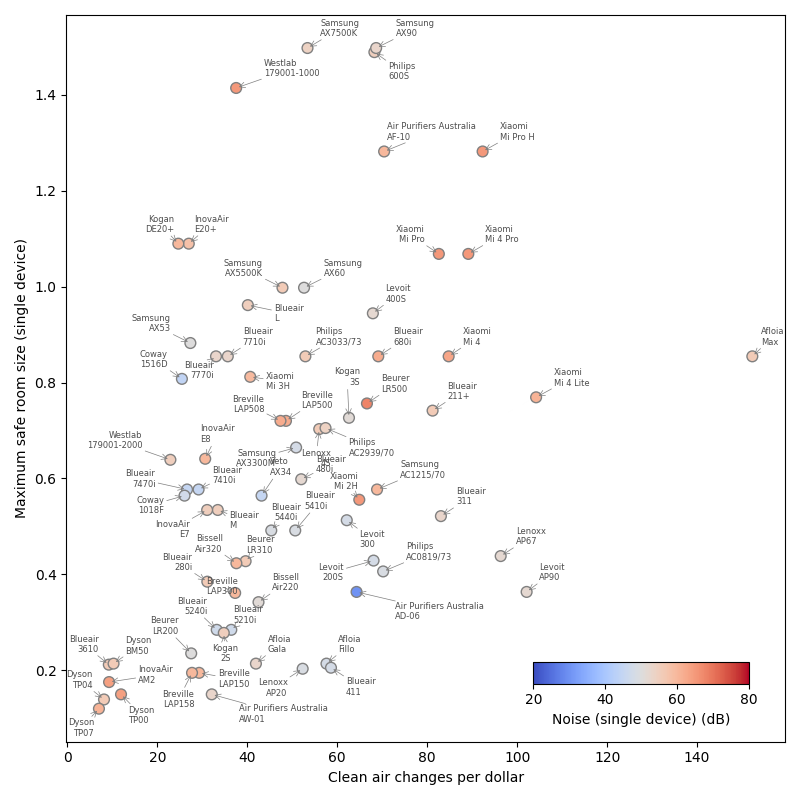
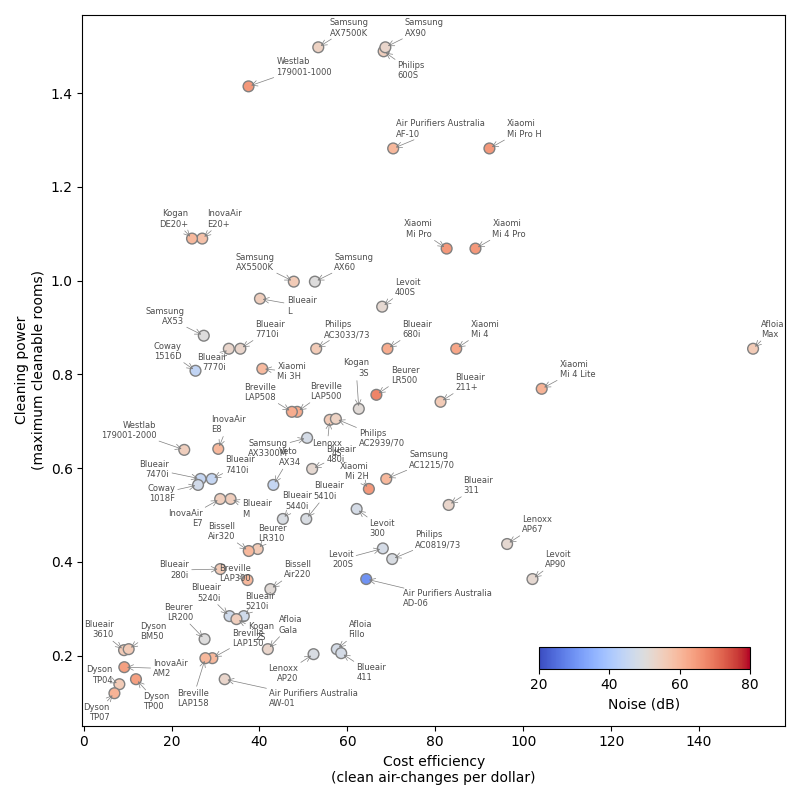
Quick push

diff --git a/products/dashboard.html b/products/dashboard.html
@@ -13,7 +13,7 @@ With so many air cleaning devices on the market, how do we know which product is
 <div>
 <h2>Overview Chart</h2>
 <p>
-This chart brings all of our data together in one graphic. Based on a typical medium-sized room and a safe standard of air quality, this chart asks: how many fresh air changes can this device buy me for the cost of a single dollar (left to right, where right is better), and how many typical medium-sized rooms can it keep clean (bottom to top, where top is better). The colour gives a sense of how noisy the device is (blue to red, where blue is better). The cost includes the upfront cost (spread over six years) plus the expected ongoing costs of electricity and filter replacements.
+This chart brings all of our data together in one graphic. Based on a typical medium-sized room and a safe standard of air quality, this chart asks: how many rooms full of clear air can this device buy me for the cost of a single dollar (left to right, where right is better), and how many typical medium-sized rooms can it keep clean (bottom to top, where top is better). The colour gives a sense of how noisy the device is (blue to red, where blue is better). The cost includes the upfront cost (spread over six years) plus the expected ongoing costs of electricity and filter replacements.
 </p>
 <div align="center">
 <img id = 'synoptic' src='https://rsbyrne.github.io/aircleaning/products/synoptic.png' alt="Synoptic"> 

diff --git a/aircleaning/produce.py b/aircleaning/produce.py
@@ -128,7 +128,7 @@ def dashboard(path=productsdir, name='dashboard'):
         '''<div>''',
         '''<h2>Overview Chart</h2>''',
         '''<p>''',
-        '''This chart brings all of our data together in one graphic. Based on a typical medium-sized room and a safe standard of air quality, this chart asks: how many fresh air changes can this device buy me for the cost of a single dollar (left to right, where right is better), and how many typical medium-sized rooms can it keep clean (bottom to top, where top is better). The colour gives a sense of how noisy the device is (blue to red, where blue is better). The cost includes the upfront cost (spread over six years) plus the expected ongoing costs of electricity and filter replacements.''',
+        '''This chart brings all of our data together in one graphic. Based on a typical medium-sized room and a safe standard of air quality, this chart asks: how many rooms full of clear air can this device buy me for the cost of a single dollar (left to right, where right is better), and how many typical medium-sized rooms can it keep clean (bottom to top, where top is better). The colour gives a sense of how noisy the device is (blue to red, where blue is better). The cost includes the upfront cost (spread over six years) plus the expected ongoing costs of electricity and filter replacements.''',
         '''</p>''',
         '''<div align="center">''',
         '''<img id = 'synoptic' src='https://rsbyrne.github.io/aircleaning/products/synoptic.png' alt="Synoptic"> ''',
@@ -236,13 +236,13 @@ def synoptic(path=productsdir):
         data['efficiency'], data['maxsize'],
         c=noisecolours, s=60, edgecolors='grey'
         )
-    ax.set_xlabel('Clean air changes per dollar')
-    ax.set_ylabel("Maximum safe room size (single device)")
+    ax.set_xlabel('Cost efficiency\n(clean air-changes per dollar)')
+    ax.set_ylabel("Cleaning power\n(maximum cleanable rooms)")
 
     plt.colorbar(
         mpl.cm.ScalarMappable(norm=norm, cmap=cmap),
         cax=ax.inset_axes((0.65, 0.08, 0.3, 0.03)),
-        label='Noise (single device) (dB)',
+        label='Noise (dB)',
         orientation='horizontal',
         shrink=0.1
         )

diff --git a/index.md b/index.md
@@ -7,6 +7,6 @@ title: AirCleaner (not for public consumption)
 <iframe id="dashboard"
     title="Chart Selector"
     width="864"
-    height="1350"
+    height="864"
     src="https://rsbyrne.github.io/aircleaning/products/dashboard.html">
 </iframe>
